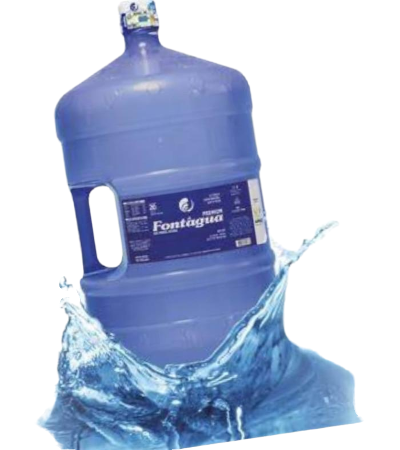
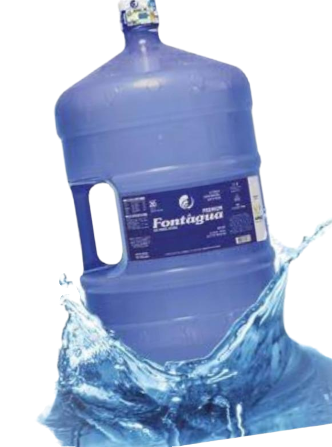
commit

diff --git a/style.css b/style.css
@@ -128,17 +128,17 @@ header{
         max-width: 40px;
     }
     .content .image img{
-        max-width: 80%;
+        max-width: 100%;
     }
     .content{
         flex-direction: column;
         margin: 120px 0;
     }
     .content .text{
-        max-width: 80%;
+        max-width: 100%;
     }
     .content .text h2{
-        font-size: 2.5em;
+        font-size: 2.2em;
     }
     .social-media{
         font-size: 1.5em;
